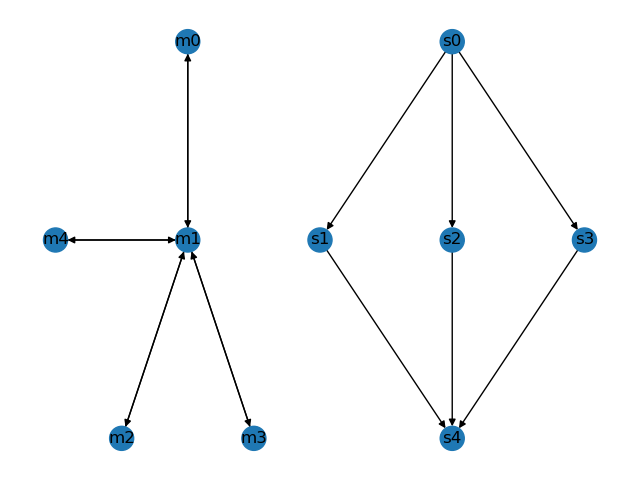
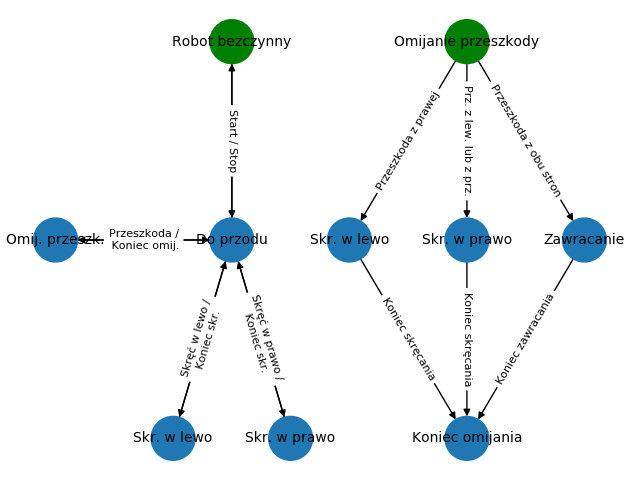
update

diff --git a/graph.py b/graph.py
@@ -4,21 +4,53 @@ import matplotlib.pyplot as plt
 edges = [('m0', 'm1'), ('m1', 'm0'), ('m1', 'm2'), ('m1', 'm3'), ('m1', 'm4'), ('m2', 'm1'), ('m3', 'm1'), ('m4', 'm1'),
          ('s0', 's1'), ('s0', 's2'), ('s0', 's3'), ('s1', 's4'), ('s2', 's4'), ('s3', 's4')]
 
-pos = {'m0': [-1, 1], 'm1': [-1, 0], 'm2': [-1.5, -1], 'm3': [-0.5, -1], 'm4': [-2, 0],
+pos = {'m0': [-1, 1], 'm1': [-1, 0], 'm2': [-1.5, -1], 'm3': [-0.5, -1], 'm4': [-2.5, 0],
        's0': [1, 1], 's1': [0, 0], 's2': [1, 0], 's3': [2, 0], 's4': [1, -1]}
 
 states = ['m0', 'm1', 'm2', 'm3', 'm4', 's0', 's1', 's2', 's3', 's4']
 
+edge_names = {
+    ('m0', 'm1'): 'Start / Stop',
+    ('m1', 'm2'): 'Skręć w lewo /\n Koniec skr.',
+    ('m1', 'm3'): 'Skręć w prawo /\n Koniec skr.',
+    ('m1', 'm4'): 'Przeszkoda /\n Koniec omij.',
+    ('s0', 's1'): 'Przeszkoda z prawej',
+    ('s0', 's2'): 'Prz. z lew. lub z prz.',
+    ('s0', 's3'): 'Przeszkoda z obu stron',
+    ('s1', 's4'): 'Koniec skręcania',
+    ('s2', 's4'): 'Koniec skręcania',
+    ('s3', 's4'): 'Koniec zawracania'
+}
+
+state_names = {
+    'm0': 'Robot bezczynny',
+    'm1': 'Do przodu',
+    'm2': 'Skr. w lewo',
+    'm3': 'Skr. w prawo',
+    'm4': 'Omij. przeszk.',
+    's0': 'Omijanie przeszkody',
+    's1': 'Skr. w lewo',
+    's2': 'Skr. w prawo',
+    's3': 'Zawracanie',
+    's4': 'Koniec omijania'
+}
+
 
 def draw_graph(state):
     node_color = ['#1f78b4']*10  # kolor domyślny
+    id = states.index('m0')
+    node_color[id] = 'g'  # zaznaczenie stanu początkowego mastera
+    id = states.index('s0')
+    node_color[id] = 'g'  # zaznaczenie stanu początkowego slave'a
     if state:
         id = states.index(state)
         node_color[id] = 'r'  # zaznaczenie aktualnego stanu
 
     G = nx.DiGraph(edges)
-    nx.draw(G, pos, node_color=node_color, with_labels=True)
-    # plt.savefig('networkx.png')
+    nx.draw(G, pos, node_size=1000, node_color=node_color, with_labels=False)
+    nx.draw_networkx_labels(G, pos, state_names, font_size=10)
+    nx.draw_networkx_edge_labels(G, pos, edge_names, font_size=8)
+    plt.savefig('networkx.png')
     plt.ion()
     plt.show()
     plt.pause(0.001)
